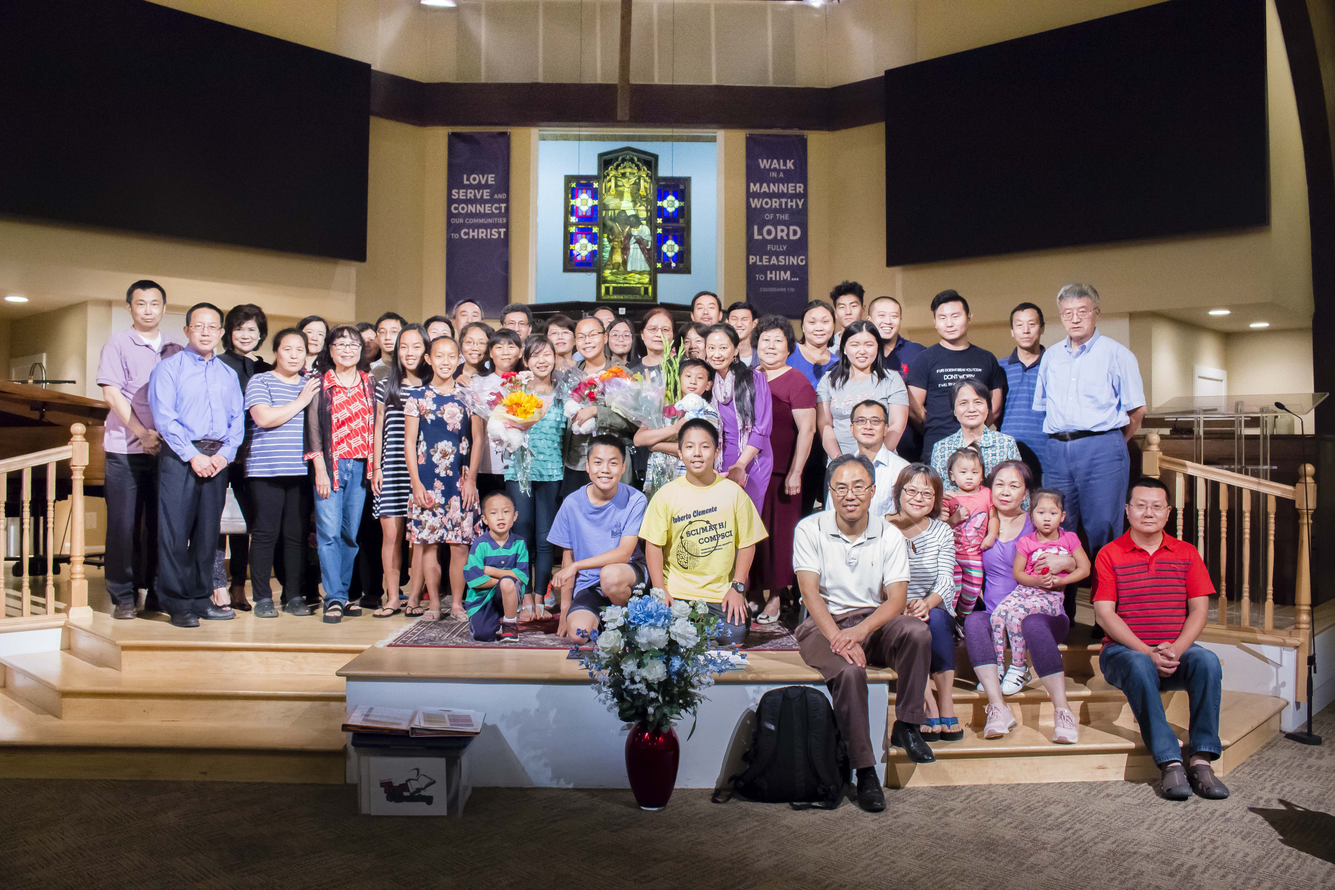
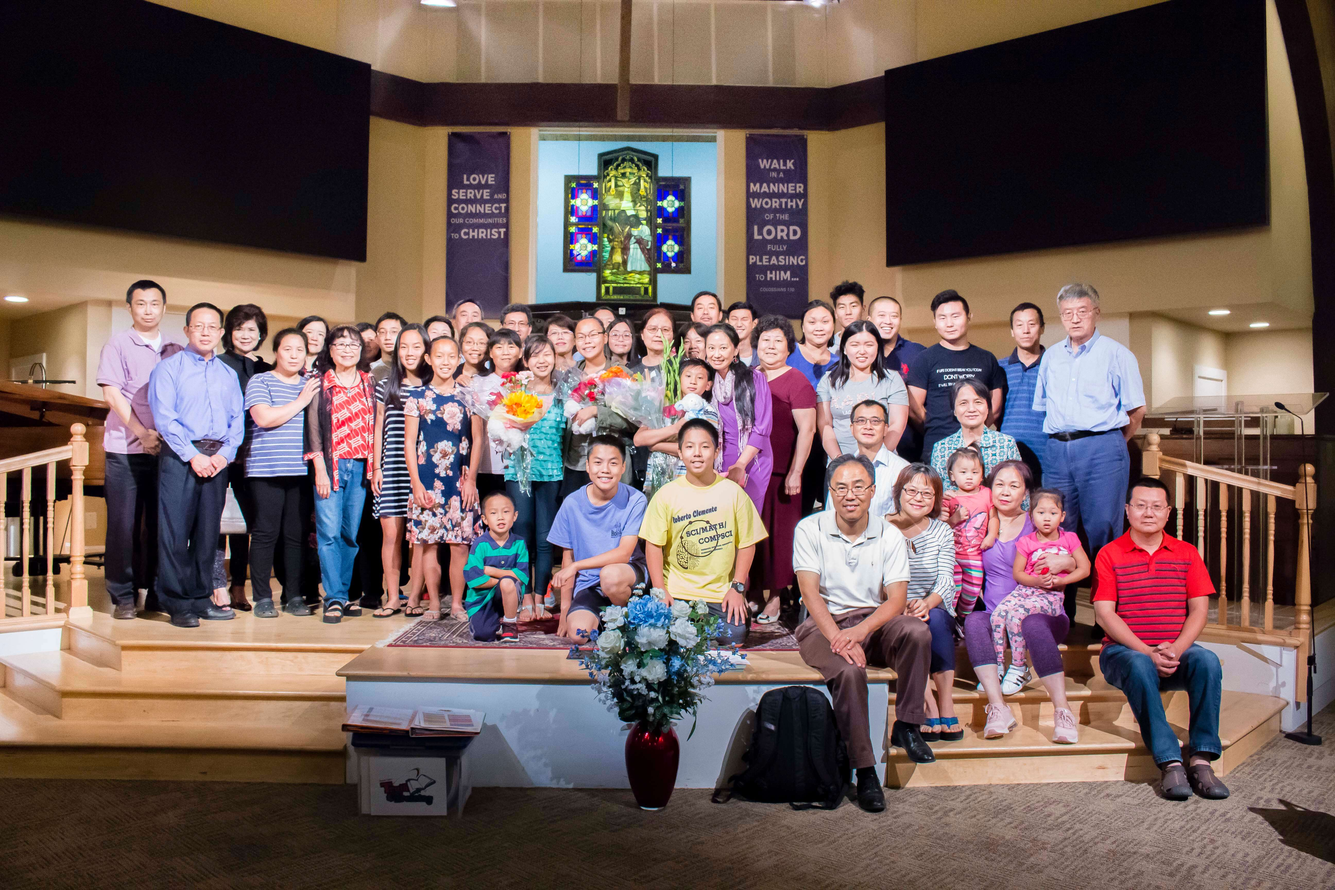
compression, update 2025-> 2026

diff --git a/index.html b/index.html
@@ -16,20 +16,20 @@
     <main class="">
         <section class="mt-[148px] md:mt-[112px] mb-12">
             <div class="slideshow-container w-full shadow-lg opacity-100 ">
-                <img class="mySlides h-64 sm:h-80 md:h-96 lg:h-[400px] xl:h-[650px]" src="images/picnic2025+priscilla.png" alt="Picnic 7">
-                <img class="mySlides h-64 sm:h-80 md:h-96 lg:h-[400px] xl:h-[650px]" src="images/picnic2025.jpg" alt="Picnic 7">
-                <img class="mySlides active h-64 sm:h-80 md:h-96 lg:h-[400px] xl:h-[650px]" src="images/baptism.jpg" alt="Church Community 1">
-                <img class="mySlides h-64 sm:h-80 md:h-96 lg:h-[400px] xl:h-[650px]" src="images/baptism2.jpg" alt="Church Community 2">
-                <img class="mySlides h-64 sm:h-80 md:h-96 lg:h-[400px] xl:h-[650px]" src="images/baptism3.jpeg" alt="Church Community 3">
-                <img class="mySlides h-64 sm:h-80 md:h-96 lg:h-[400px] xl:h-[650px]" src="images/baptism4.jpg" alt="Church Community 4">
-                <img class="mySlides h-64 sm:h-80 md:h-96 lg:h-[400px] xl:h-[650px]" src="images/baptism5.jpg" alt="Church Community 5">
-                <img class="mySlides h-64 sm:h-80 md:h-96 lg:h-[400px] xl:h-[650px]" src="images/picnic1.jpeg" alt="Picnic 1">
-                <img class="mySlides h-64 sm:h-80 md:h-96 lg:h-[400px] xl:h-[650px]" src="images/picnic2.jpeg" alt="Picnic 2">
-                <img class="mySlides h-64 sm:h-80 md:h-96 lg:h-[400px] xl:h-[650px]" src="images/picnic3.jpg" alt="Picnic 3">
-                <img class="mySlides h-64 sm:h-80 md:h-96 lg:h-[400px] xl:h-[650px]" src="images/picnic4.jpg" alt="Picnic 4">
-                <img class="mySlides h-64 sm:h-80 md:h-96 lg:h-[400px] xl:h-[650px]" src="images/picnic5.jpg" alt="Picnic 5">
-                <img class="mySlides h-64 sm:h-80 md:h-96 lg:h-[400px] xl:h-[650px]" src="images/picnic6.jpg" alt="Picnic 6">
-                <img class="mySlides h-64 sm:h-80 md:h-96 lg:h-[400px] xl:h-[650px]" src="images/picnic7.jpg" alt="Picnic 7">
+                <img class="mySlides h-64 sm:h-80 md:h-96 lg:h-[400px] xl:h-[650px]" src="images/picnic2025+priscilla.png" alt="Picnic 7" loading="eager">
+                <img class="mySlides h-64 sm:h-80 md:h-96 lg:h-[400px] xl:h-[650px]" src="images/picnic2025.jpg" alt="Picnic 7" loading="eager">
+                <img class="mySlides active h-64 sm:h-80 md:h-96 lg:h-[400px] xl:h-[650px]" src="images/baptism.jpeg" alt="Church Community 1" loading="eager">
+                <img class="mySlides h-64 sm:h-80 md:h-96 lg:h-[400px] xl:h-[650px]" src="images/baptism2.jpg" alt="Church Community 2" loading="lazy">
+                <img class="mySlides h-64 sm:h-80 md:h-96 lg:h-[400px] xl:h-[650px]" src="images/baptism3.jpeg" alt="Church Community 3" loading="lazy">
+                <img class="mySlides h-64 sm:h-80 md:h-96 lg:h-[400px] xl:h-[650px]" src="images/baptism4.jpg" alt="Church Community 4" loading="lazy">
+                <img class="mySlides h-64 sm:h-80 md:h-96 lg:h-[400px] xl:h-[650px]" src="images/baptism5.jpg" alt="Church Community 5" loading="lazy">
+                <img class="mySlides h-64 sm:h-80 md:h-96 lg:h-[400px] xl:h-[650px]" src="images/picnic1.jpeg" alt="Picnic 1" loading="lazy">
+                <img class="mySlides h-64 sm:h-80 md:h-96 lg:h-[400px] xl:h-[650px]" src="images/picnic2.jpeg" alt="Picnic 2" loading="lazy">
+                <img class="mySlides h-64 sm:h-80 md:h-96 lg:h-[400px] xl:h-[650px]" src="images/picnic3.jpg" alt="Picnic 3" loading="lazy">
+                <img class="mySlides h-64 sm:h-80 md:h-96 lg:h-[400px] xl:h-[650px]" src="images/picnic4.jpg" alt="Picnic 4" loading="lazy">
+                <img class="mySlides h-64 sm:h-80 md:h-96 lg:h-[400px] xl:h-[650px]" src="images/picnic5.jpg" alt="Picnic 5" loading="lazy">
+                <img class="mySlides h-64 sm:h-80 md:h-96 lg:h-[400px] xl:h-[650px]" src="images/picnic6.jpeg" alt="Picnic 6" loading="lazy">
+                <img class="mySlides h-64 sm:h-80 md:h-96 lg:h-[400px] xl:h-[650px]" src="images/picnic7.jpeg" alt="Picnic 7" loading="lazy">
             </div>
         </section>
         <section id="about" class="py-4 md:py-6" style="font-family: 'Times New Roman', sans-serif;">
@@ -38,7 +38,7 @@
             <div class="container mx-auto mt-10 px-4 flex flex-col md:flex-row items-center gap-10">
                 
                 <div class="md:w-1/2">
-                    <h3 class="text-3xl font-bold text-center mb-4"style= "color: #3b3c3d">2025 罗克维尔基督教会聚会 / 2025 CCR Church Meetings</h3>
+                    <h3 class="text-3xl font-bold text-center mb-4"style= "color: #3b3c3d">2026 罗克维尔基督教会聚会 / 2026 CCR Church Meetings</h3>
                     <p class="text-lg text-center text-gray-700 mb-6">Christian Church in Rockville</p>
                     
                     <p class="text-base text-left text-gray-700 mb-2">地点/Address: College Gardens Elementary School, 1700 Yale Place, Rockville, MD</p>

diff --git a/headerfooter.js b/headerfooter.js
@@ -40,7 +40,7 @@ class GenFooter extends HTMLElement {
         this.innerHTML = `
             <footer class="bg-brown-translucent text-white py-6 text-center rounded-t-lg">
         <div class="container mx-auto px-4">
-            <p>&copy; 2025 CCR Church. All rights reserved.</p>
+            <p>&copy; 2026 CCR Church. All rights reserved.</p>
             <p class="mt-2">1700 Yale Pl, Rockville, MD 20850 | <a href="tel:+13013510736">(301) 351-0736</a> | <a href="mailto:ccrchurchweb@gmail.com">ccrchurchweb@gmail.com</a></p>
         </div>
 </footer>
